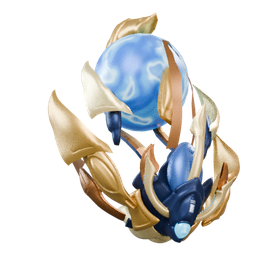
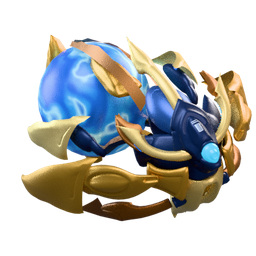
Reframe the Sentry recruit portrait in a shallow right-facing pose

diff --git a/tools/art/render_recruit_models.py b/tools/art/render_recruit_models.py
@@ -21,7 +21,7 @@ import protoss_finishes
 OUTPUT = ROOT / "assets/ui/recruits"
 MODELS = ROOT / "assets/models"
 PROTOSS_DISPLAY_MODELS = {"sentry", "disruptor"}
-PORTRAIT_ROLL = {"carrier": 30.0, "sentry": 25.0}
+PORTRAIT_ROLL = {"carrier": 30.0, "sentry": -25.5}
 # Camera positions in Blender Z-up space. The GLB models face +X.
 VIEWS = {
     "rifle": (ROOT / "assets/units/rifle/source/special_ops.blend", (-.88, -1.0, .40)),
@@ -154,8 +154,8 @@ def render(unit, temp, output=OUTPUT):
     data.type = "ORTHO"
     data.ortho_scale = max(width, height) / .90
     if unit == "sentry":
-        # Keep the elevated blue tail and forward aperture on the right of frame.
-        data.shift_x = -.062
+        # Balance the trailing fins on the left with the prow on the right.
+        data.shift_x = -.033
     camera = bpy.data.objects.new("Recruit camera", data)
     scene.collection.objects.link(camera)
     camera.rotation_euler = rotation.to_euler()
@@ -198,8 +198,8 @@ def render(unit, temp, output=OUTPUT):
     scene.view_settings.view_transform = "AgX"
     scene.view_settings.look = "AgX - Medium High Contrast"
     scene.view_settings.exposure = .68 if unit == "battlecruiser" else 0
-    if unit == "disruptor":
-        # Keep the orange solar surface distinct from its white-hot filaments.
+    if unit in PROTOSS_DISPLAY_MODELS:
+        # Preserve the saturated core colours in the two baked display models.
         scene.view_settings.view_transform = "Khronos PBR Neutral"
         scene.view_settings.look = "None"
         scene.view_settings.exposure = -.48

diff --git a/tools/art/recruit_portraits/protoss_cores.py b/tools/art/recruit_portraits/protoss_cores.py
@@ -3,10 +3,10 @@ import numpy as np
 from scipy.spatial import cKDTree
 
 
-# Blender camera directions. Look down the sentry's rails from the nose and
-# through the open side of the disruptor's containment frame.
+# Blender camera directions. The low angle separates the sentry's aft globe
+# from the gold prow. The disruptor is seen through its open containment frame.
 VIEWS = {
-    "sentry": (.805, -.484, .342),
+    "sentry": (2.6, -1.0, .32),
     "disruptor": (.74, .62, .28),
 }
 

diff --git a/assets/models/README.md b/assets/models/README.md
@@ -75,6 +75,6 @@
 
 ### 哨兵与干扰者的展示模型
 
-[哨兵](sentry/sentry_display.glb)以机首为行进方向，蓝色灵能球位于抬高的后部。招募肖像从斜前方取景，球在画面右上方，机首在右下方。运行 `blender -b --python-exit-code 1 -P tools/art/build_sentry_display.py` 可从上传的白模重建。
+[哨兵](sentry/sentry_display.glb)以机首为行进方向，蓝色灵能球位于抬高的后部。招募肖像采用横向构图，蓝球在左上，前甲和机首朝右略向下，下方的金色翼片向左延伸。运行 `blender -b --python-exit-code 1 -P tools/art/build_sentry_display.py` 可从上传的白模重建。
 
 [干扰者](disruptor/disruptor_display.glb)的金铜悬甲围着一层透光护罩，罩内有一颗独立的太阳核心。Godot 将模型内嵌的 `SolarIdle-loop` 导入为循环动画 `SolarIdle`。日面翻动，橙色热流持续越过护罩边缘，战场暂停时一起定格。运行 `python tools/art/build_disruptor_display.py` 可重建模型与动画。[核心动态预览](../../docs/media/disruptor-solar-core.gif)
